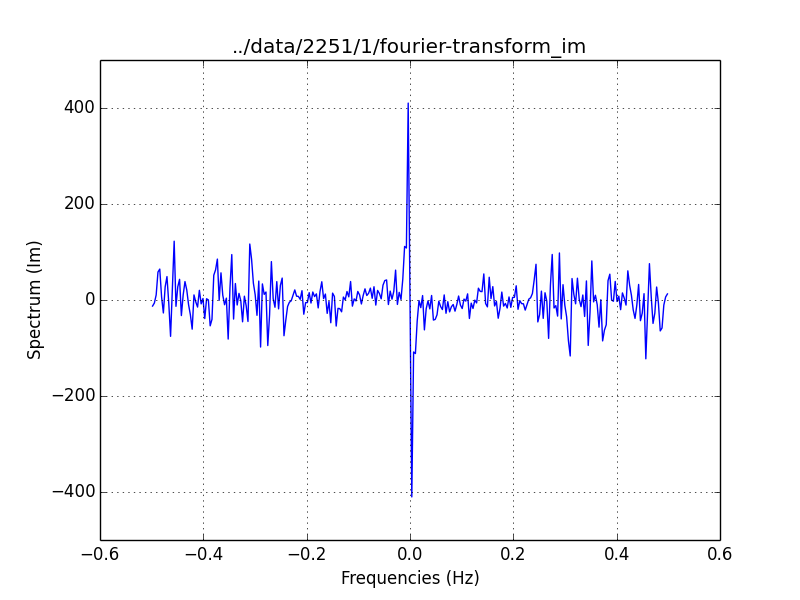
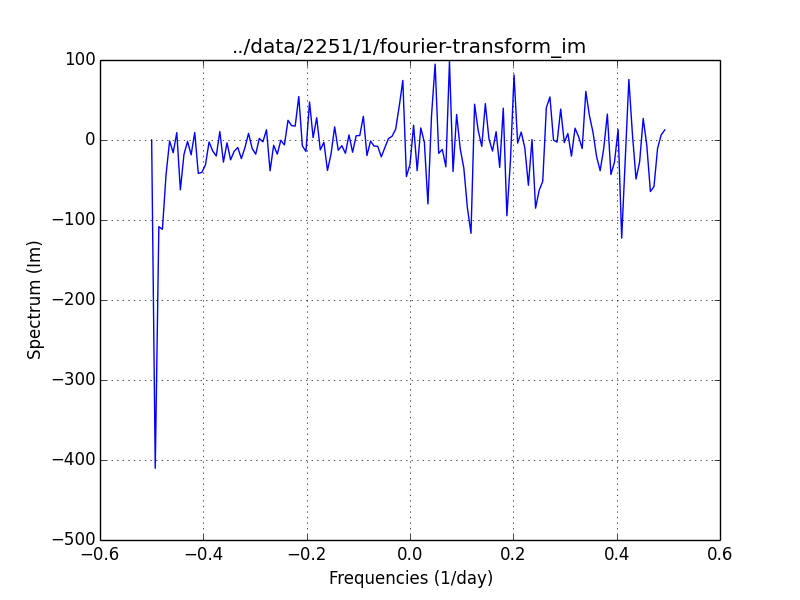
Compare np.fft.fft and np.fft.rfft

diff --git a/scripts/fourier_transform.py b/scripts/fourier_transform.py
@@ -18,18 +18,16 @@ def main(args):
     timestep = 1
     freq = np.fft.fftfreq(len(spectrum), d=timestep)
     freq = np.fft.fftshift(freq)
-    spectrum = np.fft.fftshift(spectrum)
     
-    filename = get_filename(path, "fourier-transform_re")
+    filename = get_filename(path, "fourier-transform_re_fft")
     title = filename
     plt.plot(freq, np.real(spectrum))
-    draw(filename, title=title, xlabel="Frequencies (Hz)", ylabel="Spectrum (Re)")
+    draw(filename, title=title, xlabel="Frequencies (1/day)", ylabel="Spectrum (Re)")
     
-    filename = get_filename(path, "fourier-transform_im")
+    filename = get_filename(path, "fourier-transform_im_fft")
     title = filename
     plt.plot(freq, np.imag(spectrum))
-    draw(filename, title=title, xlabel="Frequencies (Hz)", ylabel="Spectrum (Im)")
-    
+    draw(filename, title=title, xlabel="Frequencies (1/day)", ylabel="Spectrum (Im)")
     
 if __name__ == "__main__":
     main(sys.argv[1:])
